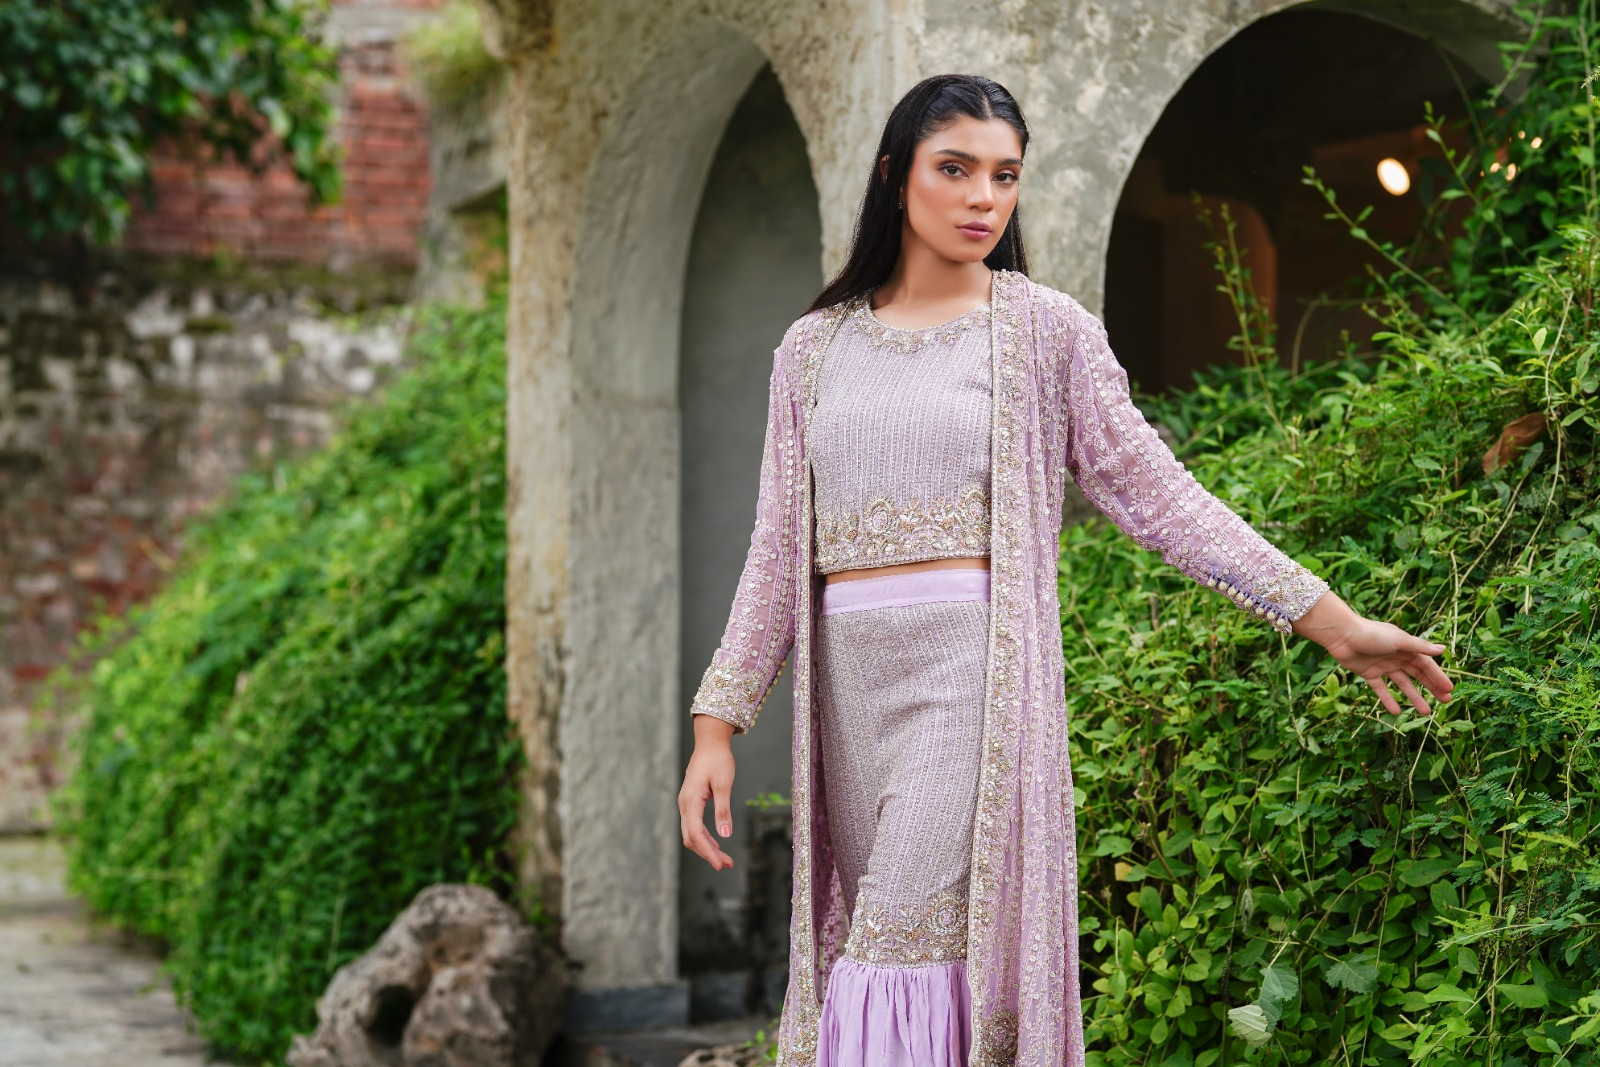
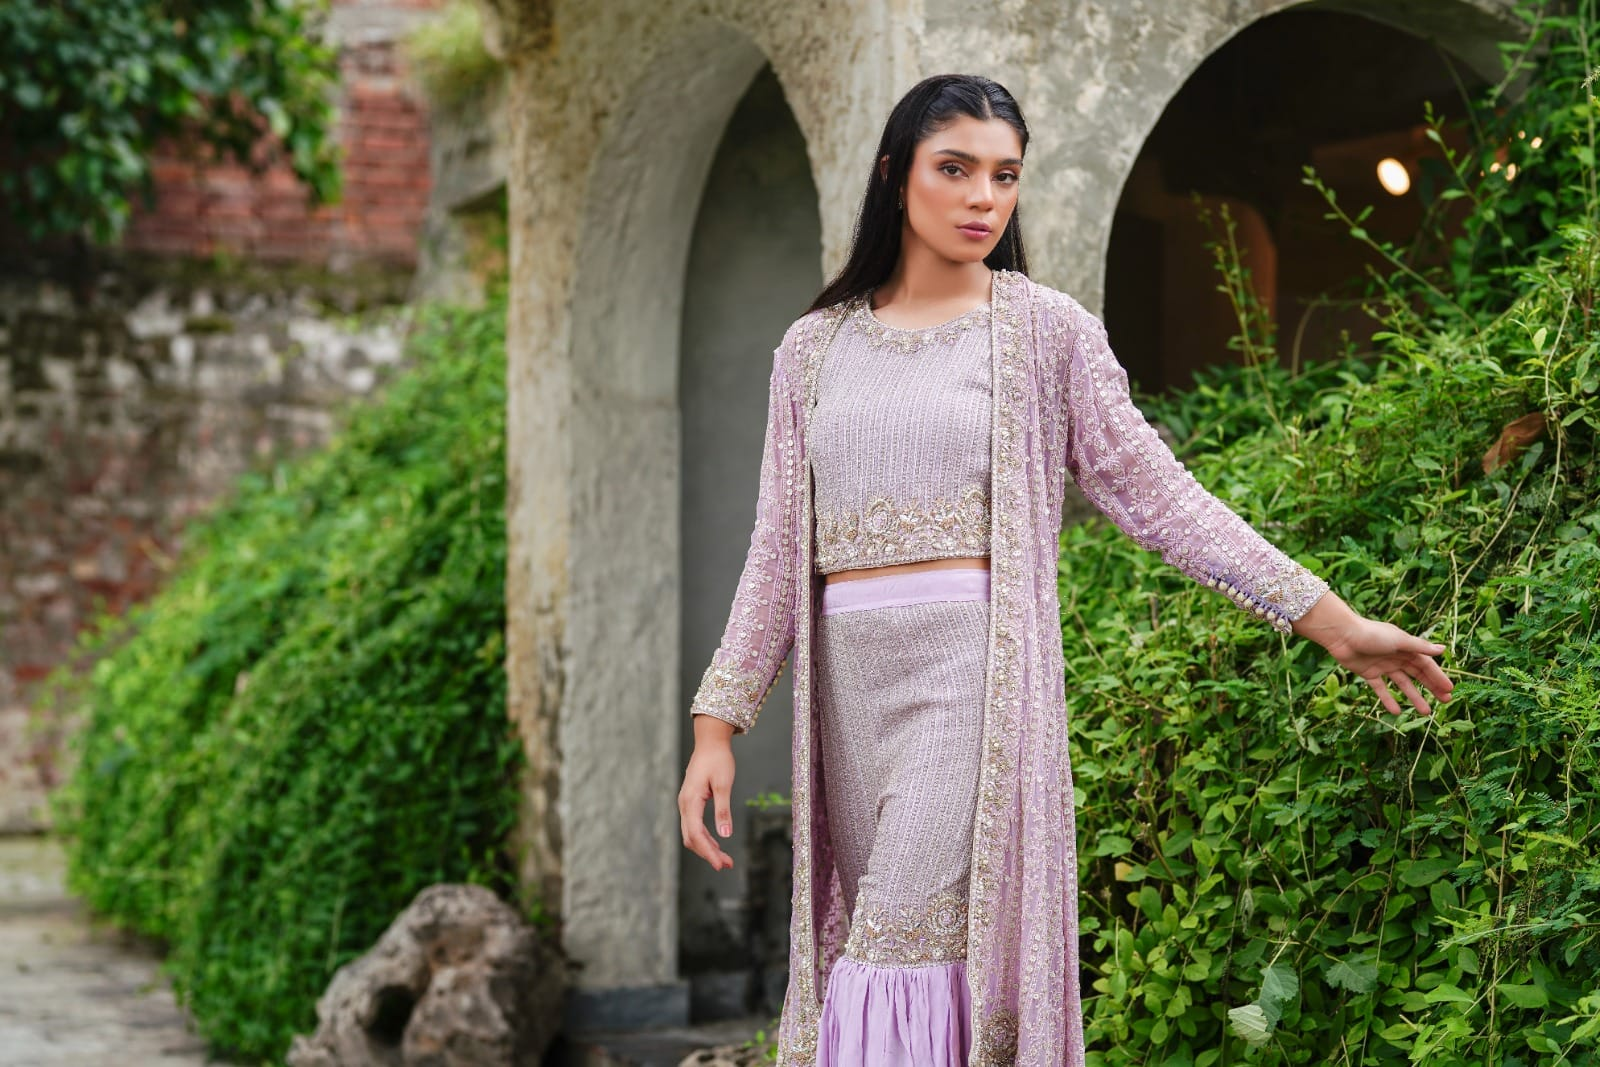
Add Meher and Suraya, a customization panel, and lighten the hero.
- Meher and Suraya join QAMARA with their photos; Meher's iPhone HEICs are
  converted to 1800px JPEGs, Suraya's are used as supplied.
- Product pages gain a Customization panel with a WhatsApp enquiry link.
- Hero images are recompressed (2.8 MB to ~350 KB) and later slides wait
  for the first to load, so the hero appears faster on phones.
- Camera originals live in an ignored photo-originals/ folder.

diff --git a/api/scripts/seed-catalog-products.js b/api/scripts/seed-catalog-products.js
@@ -221,6 +221,102 @@ const PRODUCTS = [
     "seoDescription": "A fitted silk blouse in a geometric lattice of silver and ice blue beadwork, layered with a sheer net cape and a matching silk drape skirt."
   },
   {
+    "name": "Meher",
+    "slug": "meher",
+    "category": "QAMARA",
+    "price": 140000,
+    "stock": 100,
+    "status": "published",
+    "tags": [
+      "new"
+    ],
+    "fabric": "Kathan silk, net",
+    "pieces": "3 Piece",
+    "description": "A Garden Woven in Gold.\n\nCrafted in luminous kathan silk, Meher celebrates the romance of traditional Pakistani artistry through a contemporary lens. The richly embellished choli and sweeping lehnga are adorned with intricate kora dabka and dimensional threadwork, creating delicate floral motifs throughout.\n\nFinished with statement tassel detailing at the back and paired with a soft tea-pink net dupatta framed by an embroidered four-sided border, Meher is an exquisite composition of colour, craftsmanship and timeless femininity.",
+    "highlights": [
+      "Kora and dabka",
+      "Dimensional threadwork",
+      "Tassel detailing at the back",
+      "Four-sided embroidered border"
+    ],
+    "colors": [
+      {
+        "name": "Mint",
+        "hex": "#A8C6BE"
+      }
+    ],
+    "specifications": [
+      {
+        "key": "Fabric",
+        "value": "kathan silk, net"
+      },
+      {
+        "key": "Colour",
+        "value": "mint, tea pink"
+      },
+      {
+        "key": "Care",
+        "value": "Dry clean only"
+      }
+    ],
+    "images": [
+      "/products/meher/02.jpg",
+      "/products/meher/01.jpg",
+      "/products/meher/03.jpg",
+      "/products/meher/04.jpg"
+    ],
+    "seoTitle": "Meher — HAJAR BY NAZISH ALI | HAJAR",
+    "seoDescription": "A kathan silk choli and sweeping lehnga in kora dabka and dimensional threadwork, with a tea-pink net dupatta framed by an embroidered border."
+  },
+  {
+    "name": "Suraya",
+    "slug": "suraya",
+    "category": "QAMARA",
+    "price": 69000,
+    "stock": 100,
+    "status": "published",
+    "tags": [
+      "new"
+    ],
+    "fabric": "Net, pure tissue zari, organza",
+    "pieces": "3 Piece",
+    "description": "A modern heirloom, handcrafted for unforgettable celebrations.\n\nA luminous celebration of contemporary elegance and traditional craftsmanship. Suraya features an intricately embellished net choli layered over pure tissue zari, adorned with cascading crystal chains, delicate blush florals and pearl detailing.\n\nPaired with a lustrous pure tissue zari lehnga, the ensemble is completed with an ethereal organza dupatta, finished with a four-sided embellished border and delicate tassels.",
+    "highlights": [
+      "Cascading crystal chains",
+      "Blush florals",
+      "Pearl detailing",
+      "Four-sided embellished border"
+    ],
+    "colors": [
+      {
+        "name": "Champagne",
+        "hex": "#CFC7A4"
+      }
+    ],
+    "specifications": [
+      {
+        "key": "Fabric",
+        "value": "net, pure tissue zari, organza"
+      },
+      {
+        "key": "Colour",
+        "value": "champagne, gold"
+      },
+      {
+        "key": "Care",
+        "value": "Dry clean only"
+      }
+    ],
+    "images": [
+      "/products/suraya/02.jpg",
+      "/products/suraya/01.jpg",
+      "/products/suraya/04.jpg",
+      "/products/suraya/03.jpg"
+    ],
+    "seoTitle": "Suraya — HAJAR BY NAZISH ALI | HAJAR",
+    "seoDescription": "An embellished net choli over pure tissue zari with crystal chains, blush florals and pearls, a tissue zari lehnga and an organza dupatta."
+  },
+  {
     "name": "Subh-e-Feroza",
     "slug": "subh-e-feroza",
     "category": "ZOUQ 1",

diff --git a/web/src/components/ProductDetailClient.tsx b/web/src/components/ProductDetailClient.tsx
@@ -8,6 +8,15 @@ import { Price } from "@/components/currency/Price";
 import { addonsFor, savePercent, type Product } from "@/lib/data";
 import { catalogImageProps } from "@/lib/catalog";
 import { cn } from "@/lib/clsx";
+import { SITE } from "@/lib/seo";
+
+/** What a client can change on any piece. Mirrors the house customization card. */
+const CUSTOMIZATIONS = [
+  { title: "Heaviness of work", text: "Choose a lighter or more elaborate look." },
+  { title: "Sleeve length", text: "From sleeveless to full sleeves." },
+  { title: "Neckline", text: "Modified to suit your comfort and aesthetic." },
+  { title: "Anything else", text: "Tell us what you have in mind." },
+];
 
 export function ProductDetailClient({ product }: { product: Product }) {
   const { addItem } = useCart();
@@ -94,6 +103,58 @@ export function ProductDetailClient({ product }: { product: Product }) {
           <p className="font-mono text-[11px] text-hj-muted">
             SKU {product.sku}
           </p>
+        </div>
+      ),
+    },
+    {
+      id: "customization",
+      title: "Customization",
+      content: (
+        <div className="space-y-5 text-sm leading-relaxed text-hj-ink-soft">
+          <p className="max-w-prose font-display text-base italic text-hj-gold-deep">
+            Every client is unique, and so are her preferences. This piece can
+            be tailored to your personal style.
+          </p>
+          <ul className="grid grid-cols-2 gap-x-5 gap-y-4">
+            {CUSTOMIZATIONS.map((c) => (
+              <li key={c.title}>
+                <p className="text-[10px] uppercase tracking-[0.16em] text-hj-ink">
+                  {c.title}
+                </p>
+                <p className="mt-1 text-[13px] text-hj-muted">{c.text}</p>
+              </li>
+            ))}
+          </ul>
+          <ul className="divide-y divide-hj-border border-y border-hj-border">
+            <li className="flex gap-3 py-3">
+              <span aria-hidden className="w-4 shrink-0 text-hj-gold-deep">
+                ↓
+              </span>
+              <span>
+                <span className="text-hj-ink">Lighter work</span> — the price is
+                adjusted accordingly.
+              </span>
+            </li>
+            <li className="flex gap-3 py-3">
+              <span aria-hidden className="w-4 shrink-0 text-hj-gold-deep">
+                ↑
+              </span>
+              <span>
+                <span className="text-hj-ink">Added sleeves, heavier work</span>{" "}
+                or other changes that need more work carry an additional cost.
+              </span>
+            </li>
+          </ul>
+          <a
+            href={`https://wa.me/${SITE.whatsapp}?text=${encodeURIComponent(
+              `Hi, I'd like to customize ${product.name} (${product.sku}).`
+            )}`}
+            target="_blank"
+            rel="noopener noreferrer"
+            className="tap-target inline-block text-[11px] uppercase tracking-[0.14em] text-hj-gold-deep hover:underline"
+          >
+            Discuss customization on WhatsApp →
+          </a>
         </div>
       ),
     },
@@ -344,7 +405,7 @@ export function ProductDetailClient({ product }: { product: Product }) {
             ? "Enquire on WhatsApp about a made-to-order piece."
             : product.stock <= 3
               ? `Only ${product.stock} left in this colourway.`
-              : "Made to order · approximately 5–6 weeks within Pakistan."}
+              : "Made to order · approximately 5–6 weeks within Pakistan · customizable."}
         </p>
 
         <Link

diff --git a/web/src/components/home/HeroSlider.tsx b/web/src/components/home/HeroSlider.tsx
@@ -11,6 +11,11 @@ const INTERVAL = 4500;
 export function HeroSlider({ slides }: { slides: HeroSlide[] }) {
   const [index, setIndex] = useState(0);
   const [paused, setPaused] = useState(false);
+  // Slides other than the first are only mounted once the first has loaded,
+  // so on a phone connection they do not compete with it for bandwidth.
+  // After that, the next slide is fetched one step ahead of the rotation.
+  const [firstLoaded, setFirstLoaded] = useState(false);
+  const [mounted, setMounted] = useState<Set<number>>(() => new Set([0]));
   const touchStart = useRef<number | null>(null);
 
   const go = useCallback(
@@ -19,10 +24,19 @@ export function HeroSlider({ slides }: { slides: HeroSlide[] }) {
   );
 
   useEffect(() => {
-    if (paused || slides.length < 2) return;
+    if (!firstLoaded) return;
+    setMounted((prev) => {
+      const ahead = (index + 1) % slides.length;
+      if (prev.has(index) && prev.has(ahead)) return prev;
+      return new Set(prev).add(index).add(ahead);
+    });
+  }, [index, firstLoaded, slides.length]);
+
+  useEffect(() => {
+    if (paused || !firstLoaded || slides.length < 2) return;
     const t = setTimeout(() => go(index + 1), INTERVAL);
     return () => clearTimeout(t);
-  }, [index, paused, go, slides.length]);
+  }, [index, paused, firstLoaded, go, slides.length]);
 
   useEffect(() => {
     if (window.matchMedia("(prefers-reduced-motion: reduce)").matches) {
@@ -53,6 +67,7 @@ export function HeroSlider({ slides }: { slides: HeroSlide[] }) {
     >
       {slides.map((item, i) => {
         const active = i === index;
+        if (!active && !mounted.has(i)) return null;
         return (
           <div
             key={item.image}
@@ -68,7 +83,9 @@ export function HeroSlider({ slides }: { slides: HeroSlide[] }) {
               fill
               priority={i === 0}
               sizes="100vw"
-              quality={85}
+              quality={75}
+              onLoad={i === 0 ? () => setFirstLoaded(true) : undefined}
+              onError={i === 0 ? () => setFirstLoaded(true) : undefined}
               style={{ objectPosition: item.focal ?? HERO_FOCAL_DEFAULT }}
               className="object-cover"
             />

diff --git a/web/src/lib/data.ts b/web/src/lib/data.ts
@@ -378,7 +378,7 @@ export const HERO_SLIDES: HeroSlide[] = [
     kicker: "HAJAR BY NAZISH ALI — Exclusive handcrafted formals",
     href: "/category/hajar-by-nazish-ali",
     cta: "Discover the signature line",
-    // 2752x1536 (1.79:1). Shot wide with headroom above both models, so it is
+    // 2400x1340 (1.79:1). Shot wide with headroom above both models, so it is
     // the one that survives the band's crop — hence it leads.
     focal: "center 20%",
   },
@@ -417,6 +417,8 @@ export const LOOKBOOK_COVERS: Record<string, { product: string; image: number }>
  * most recently updated pieces so it is never empty.
  */
 export const FEATURED_SLUGS = [
+  "meher",
+  "suraya",
   "lunara",
   "elara",
   "moonlight-pearl",
